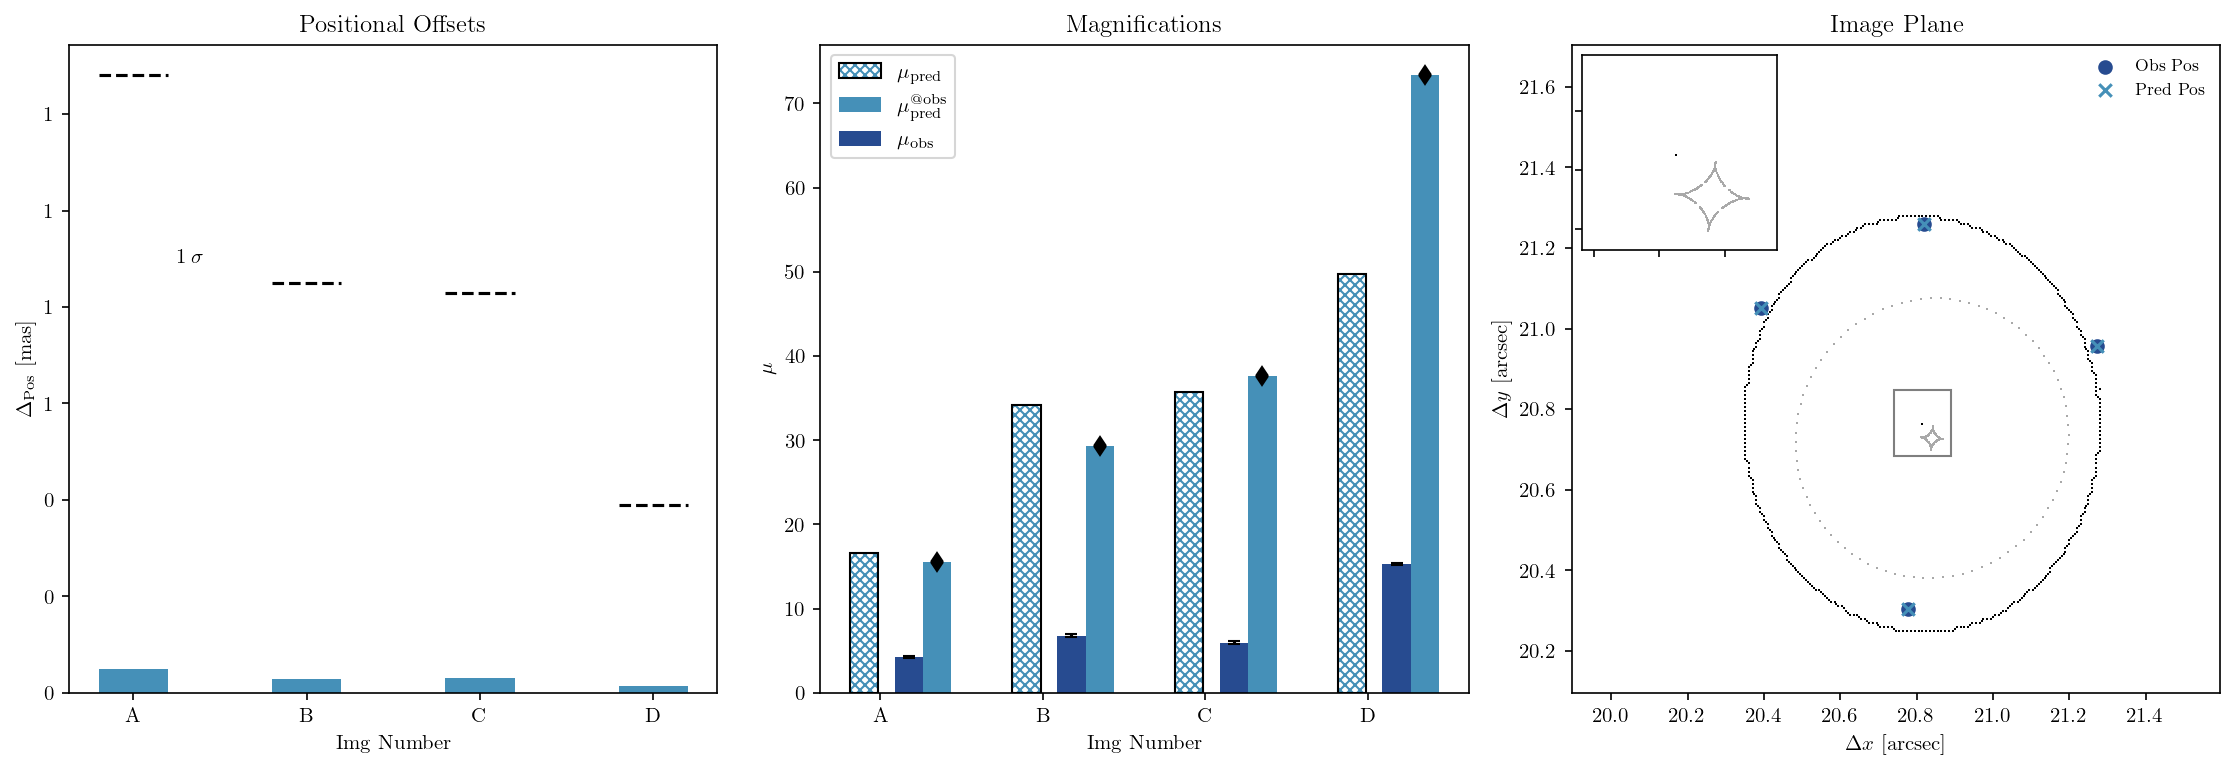
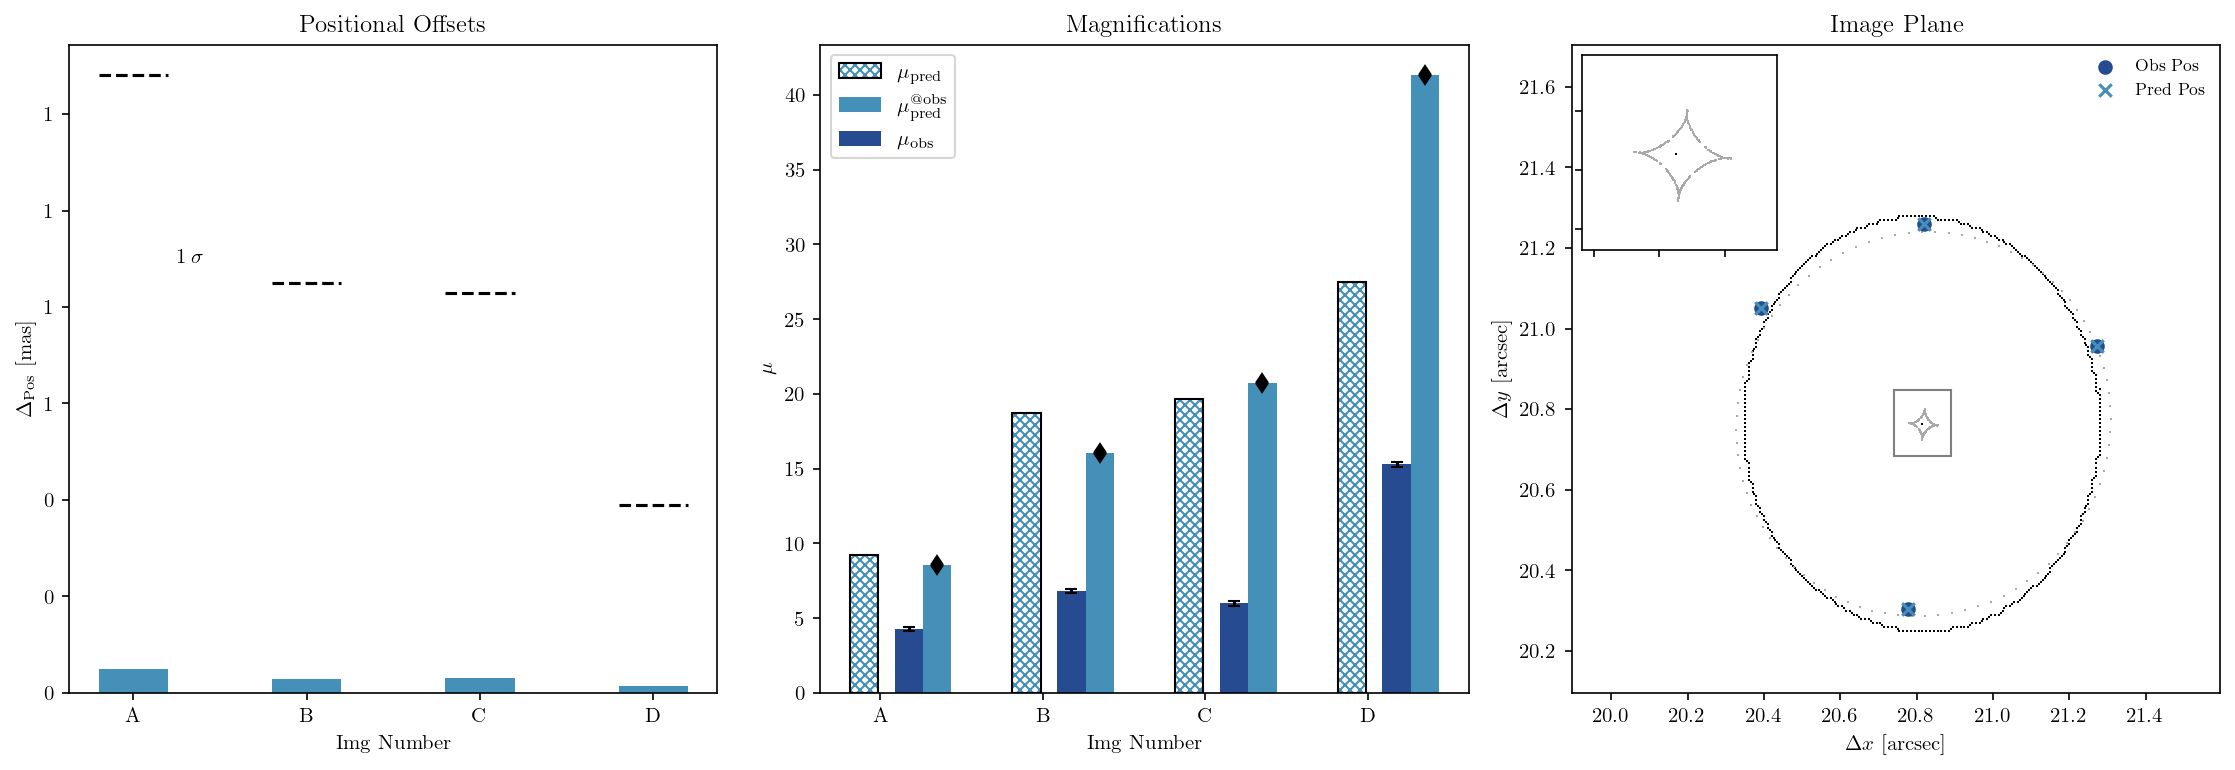
sersic sie pos+flux+shear

diff --git a/Sersic/SIE+SHEAR/pos_flux_point.py b/Sersic/SIE+SHEAR/pos_flux_point.py
@@ -1,7 +1,7 @@
 #!/usr/bin/env python
 import glafic
 
-glafic.init(0.3, 0.7, -1.0, 0.7, 'SIE+SHEAR/SIE_POS+FLUX_SHEAR', 20.0, 20.0, 21.56, 21.56, 0.001, 0.001, 1, verb = 0)
+glafic.init(0.3, 0.7, -1.0, 0.7, 'Sersic/SIE+SHEAR/SIE_POS+FLUX_SHEAR', 20.0, 20.0, 21.56, 21.56, 0.01, 0.01, 1, verb = 0)
 
 glafic.set_secondary('chi2_splane 0', verb = 0)
 glafic.set_secondary('chi2_checknimg 0', verb = 0)
@@ -10,13 +10,17 @@ glafic.set_secondary('chi2_usemag    1', verb = 0)
 glafic.set_secondary('hvary          0', verb = 0)
 glafic.set_secondary('ran_seed -122000', verb = 0)
 
-glafic.startup_setnum(2, 0, 1)
-glafic.set_lens(1, 'sie', 0.261343256161012, 1.30e+02, 20.81, 20.76, 0.109, 23.18, 0.0, 0.0)
-glafic.set_lens(2, 'pert', 0.261343256161012, 1.0, 20.89, 20.64, 0.1, 140.0, 0.0, 0.3)
-glafic.set_point(1, 1.0, 20.78, 20.78)
+glafic.startup_setnum(4, 0, 1)
+glafic.set_lens(1, 'sie', 0.261343256161012, 1.330408e+02, 2.081101e+01, 2.074672e+01, 2.621170e-01, 4.347179e+00, 0.000000e+00, 0.000000e+00)
+glafic.set_lens(2, 'sers', 0.261343256161012, 8e+10, 21.2807, 20.8498, 0.19174, 97.1557, 51.8810, 1.4424)
+glafic.set_lens(3, 'sers', 0.261343256161012, 1e+10, 21.2807, 20.8498, 0.58185, 80.9088, 5.97926, 0.5737)
+glafic.set_lens(4, 'pert', 0.261343256161012, 1.0, 2.089679e+01, 2.064802e+01, 2.845433e-02, 1.107962e+02, 0.000000e+00, 2.945198e-01)
+glafic.set_point(1, 1.0, 2.083964e+01, 2.073650e+01)
 
 glafic.setopt_lens(1, 0, 1, 1, 1, 1, 1, 0, 0)
-glafic.setopt_lens(2, 0, 0, 1, 1, 1, 1, 0, 1)
+glafic.setopt_lens(2, 0, 1, 0, 0, 0, 0, 0, 0)
+glafic.setopt_lens(3, 0, 1, 0, 0, 0, 0, 0, 0)
+glafic.setopt_lens(4, 0, 0, 1, 1, 1, 1, 0, 1)
 glafic.setopt_point(1, 0, 1, 1)
 
 # model_init needs to be done again whenever model parameters are changed
